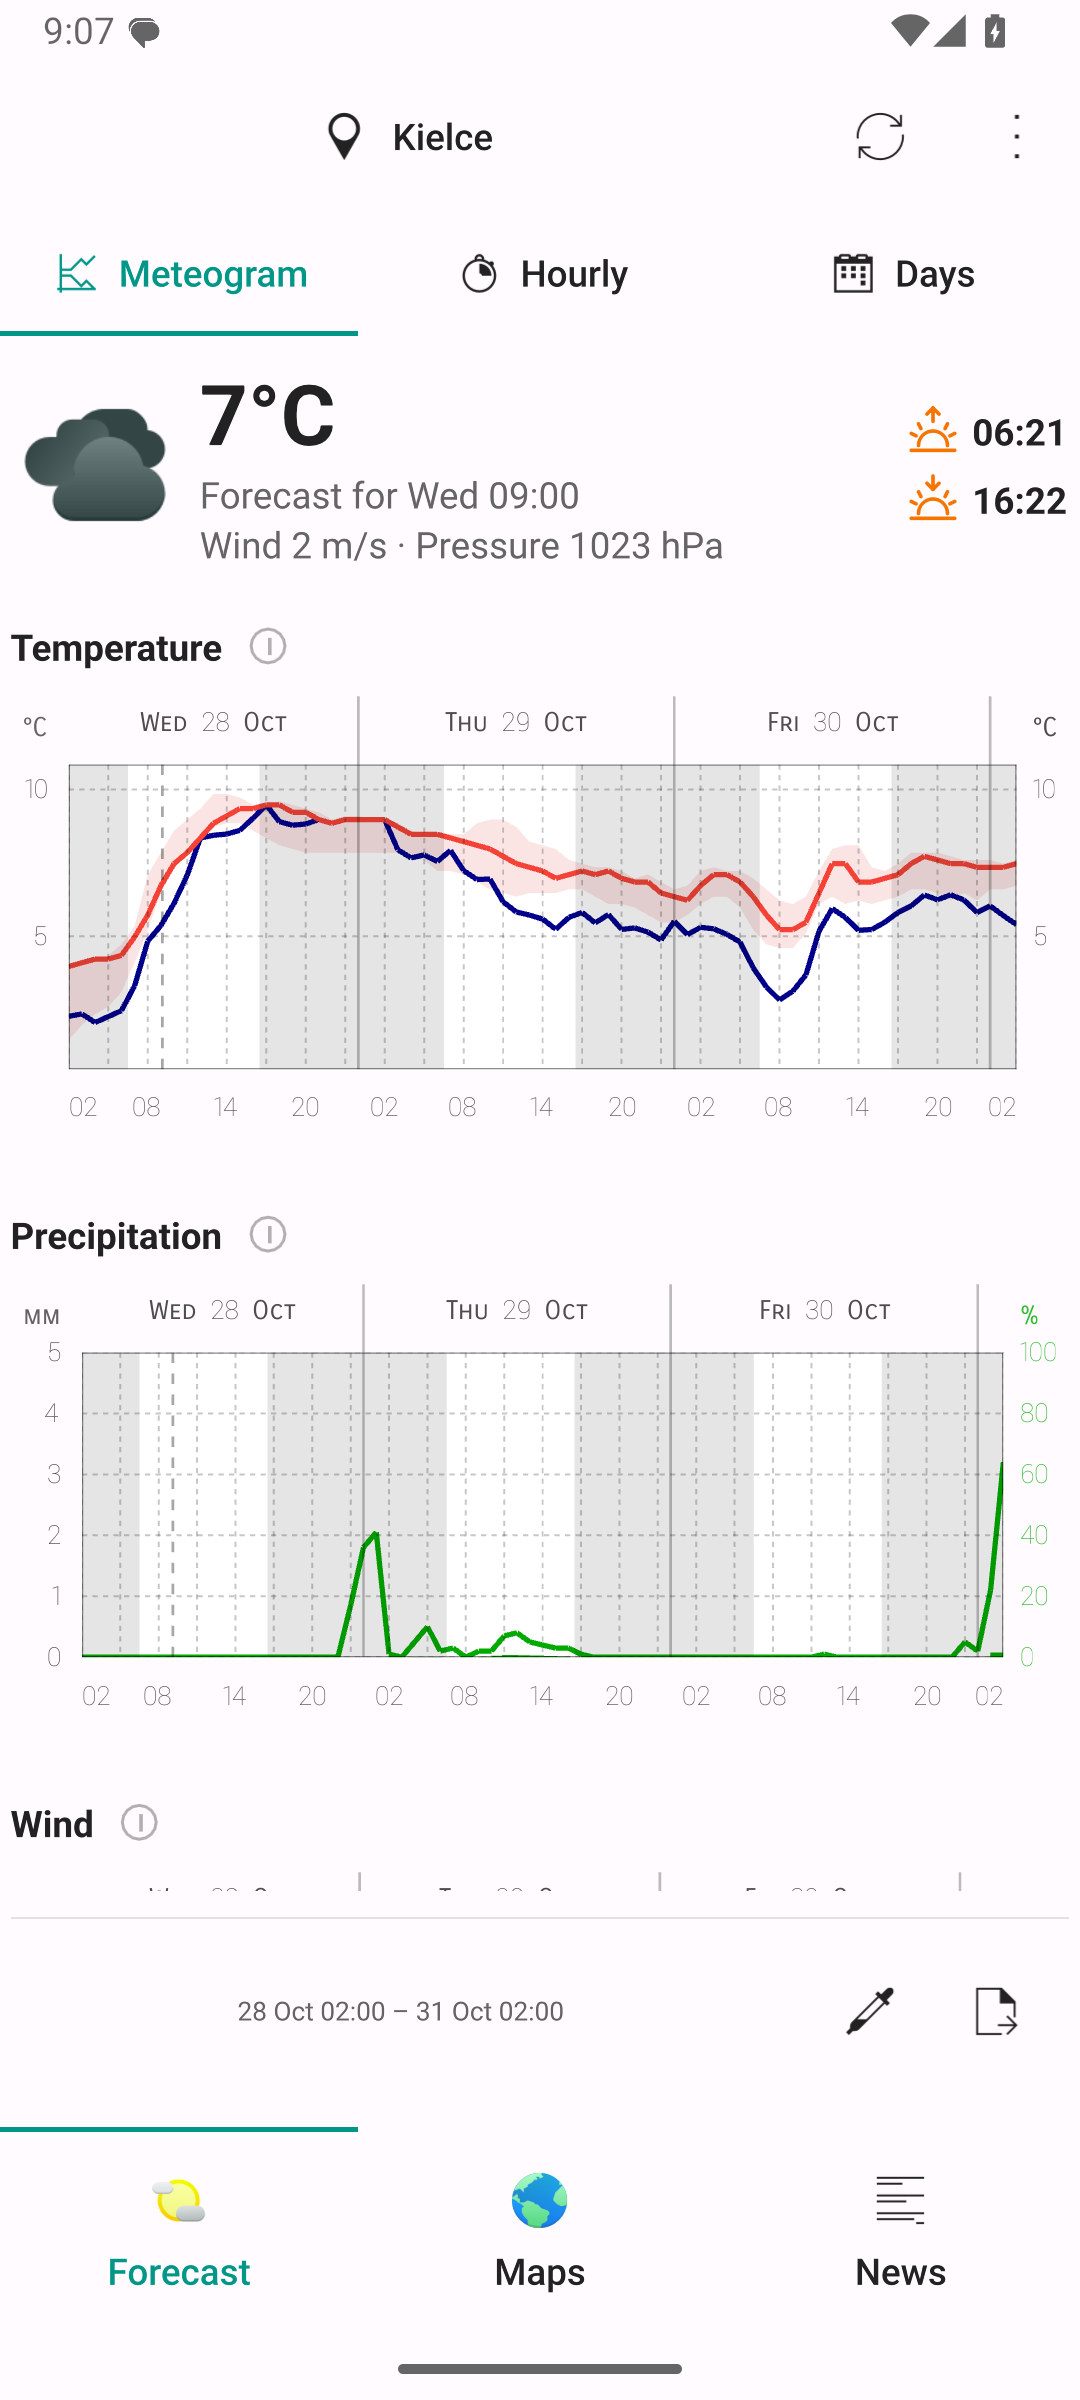
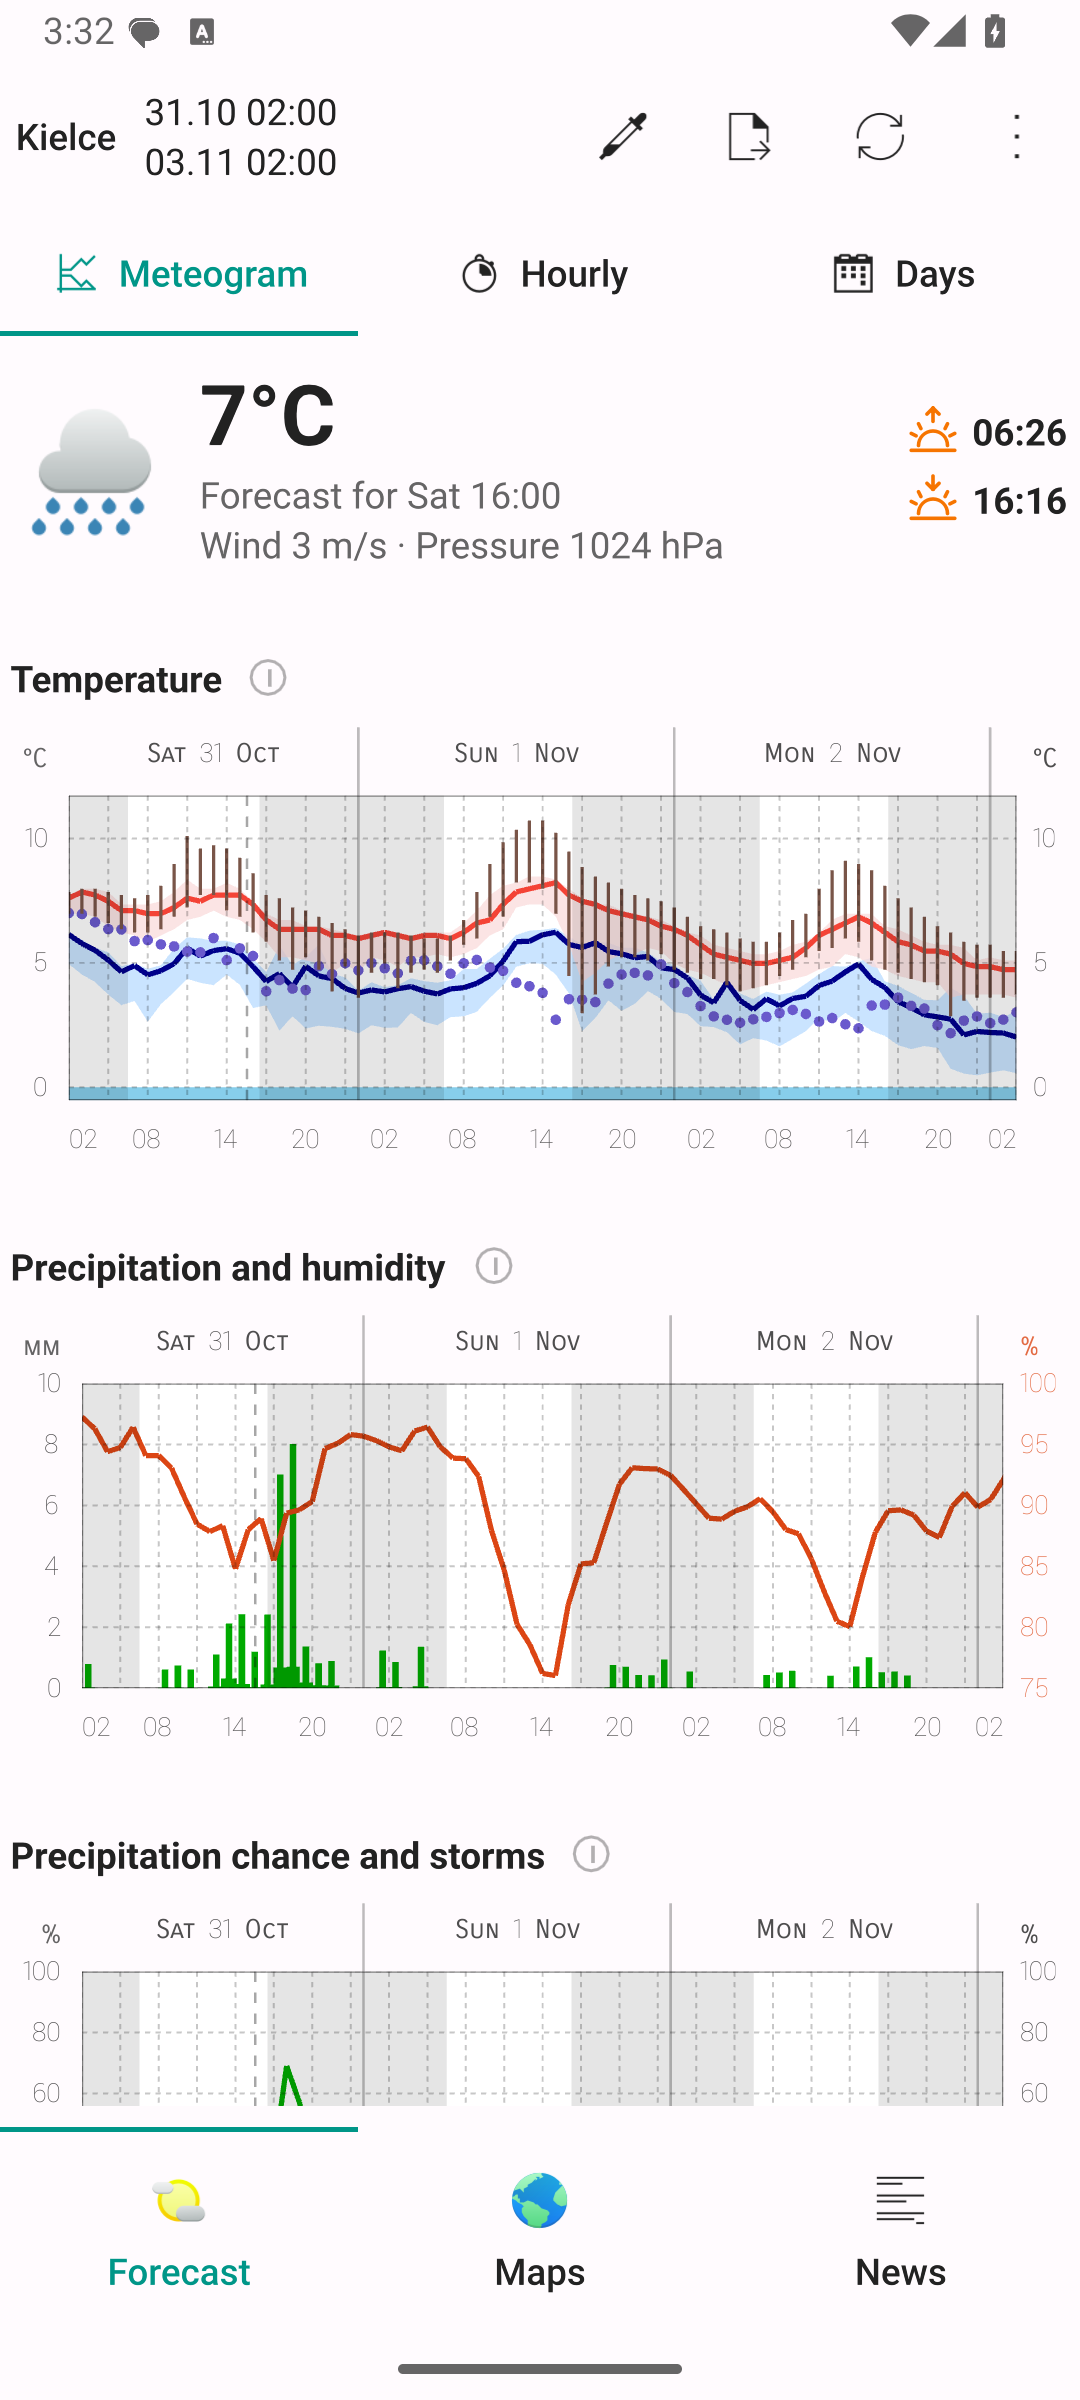
docs: refresh Android screenshot and release download guidance

diff --git a/README.md b/README.md
@@ -46,9 +46,7 @@ wind speed, gusts and direction in one view.*
 
 ## Screenshots
 
-These screenshots were captured on 28 October 2026 from the running application
-and Plasma widget with real ICM weather data. The Android image comes from the
-APK running in an Android 15 emulator with its default 72-hour view.
+Meteo on the desktop, in a Plasma widget and on Android.
 Click an image to view it at full size.
 
 | Interactive weather map | Thematic maps |
@@ -69,15 +67,18 @@ Click an image to view it at full size.
 | KDE Plasma widget | Android |
 | :---: | :---: |
 | <a href="docs/images/plasma.png"><img src="docs/images/plasma.png" height="540" alt="Plasma popup with temperature and wind charts expanded, other charts collapsed, and a button to open the full application"></a> | <a href="docs/images/android.png"><img src="docs/images/android.png" height="540" alt="Android Material interface showing meteograms, forecast tabs and bottom navigation"></a> |
-| Independently expandable charts inside Plasma's native popup. | Touch navigation with forecast, map and news views. |
+| Independently expandable charts inside Plasma's native popup. | Touch gestures and compact chart controls, with forecast, map and news views. |
 
 ## Install
 
-This project is under active development. GitHub Actions builds downloadable
-artifacts; there is no stable release yet. Open a successful run in
-[Actions](https://github.com/kapiwko/meteo-pl/actions) and download the artifact
-for your system. Each package directory includes SHA-256 checksums and a build
-report.
+Download Linux packages and the Android APK from
+[Releases](https://github.com/kapiwko/meteo-pl/releases/latest). The release tag
+and checksum manifest carry the maintainer's GPG signature; Android APKs use the
+persistent application release key.
+
+Development snapshots are available from successful runs in
+[Actions](https://github.com/kapiwko/meteo-pl/actions). Each package artifact
+includes SHA-256 checksums and a build report.
 
 | System | Package | Includes the Plasma widget |
 | --- | --- | --- |
